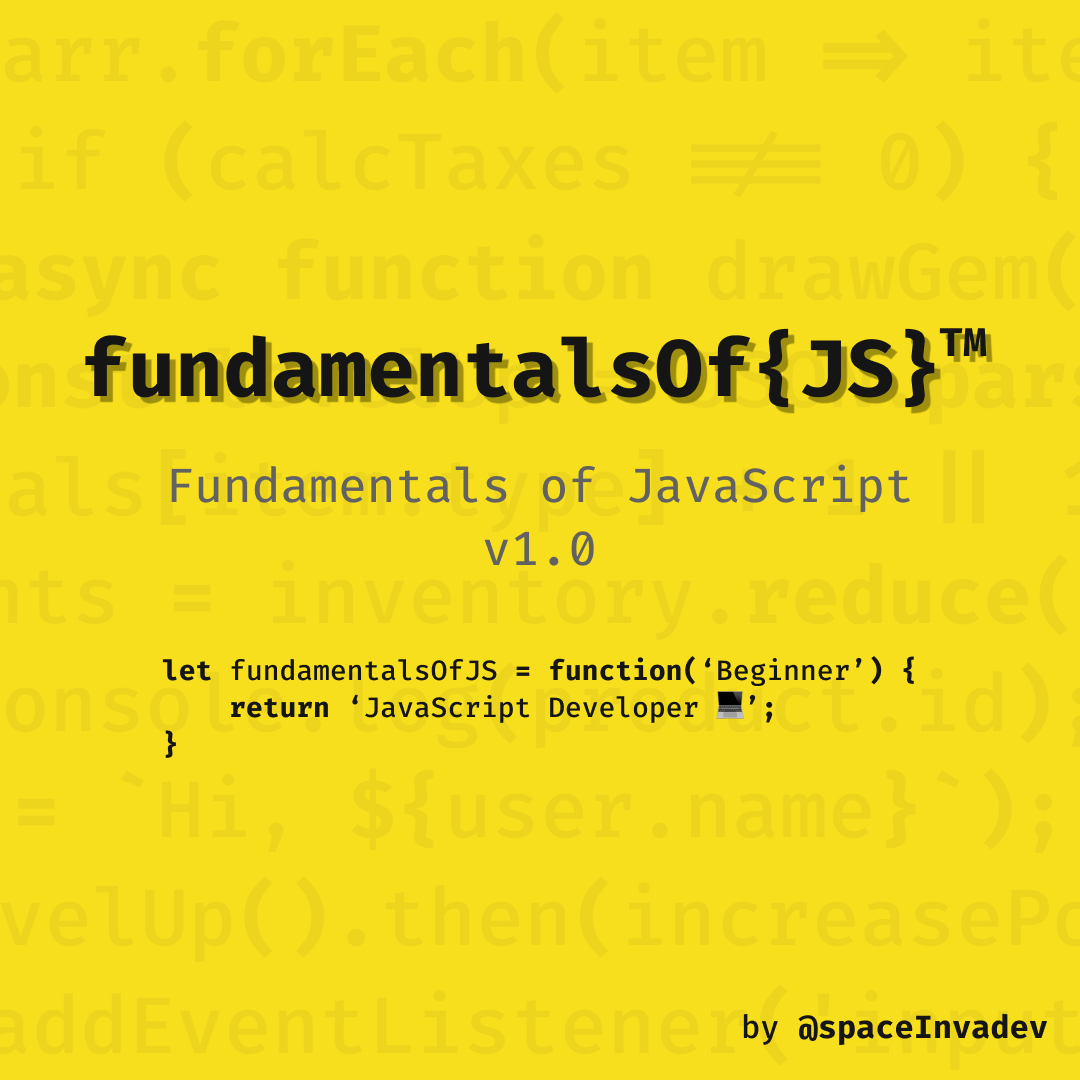
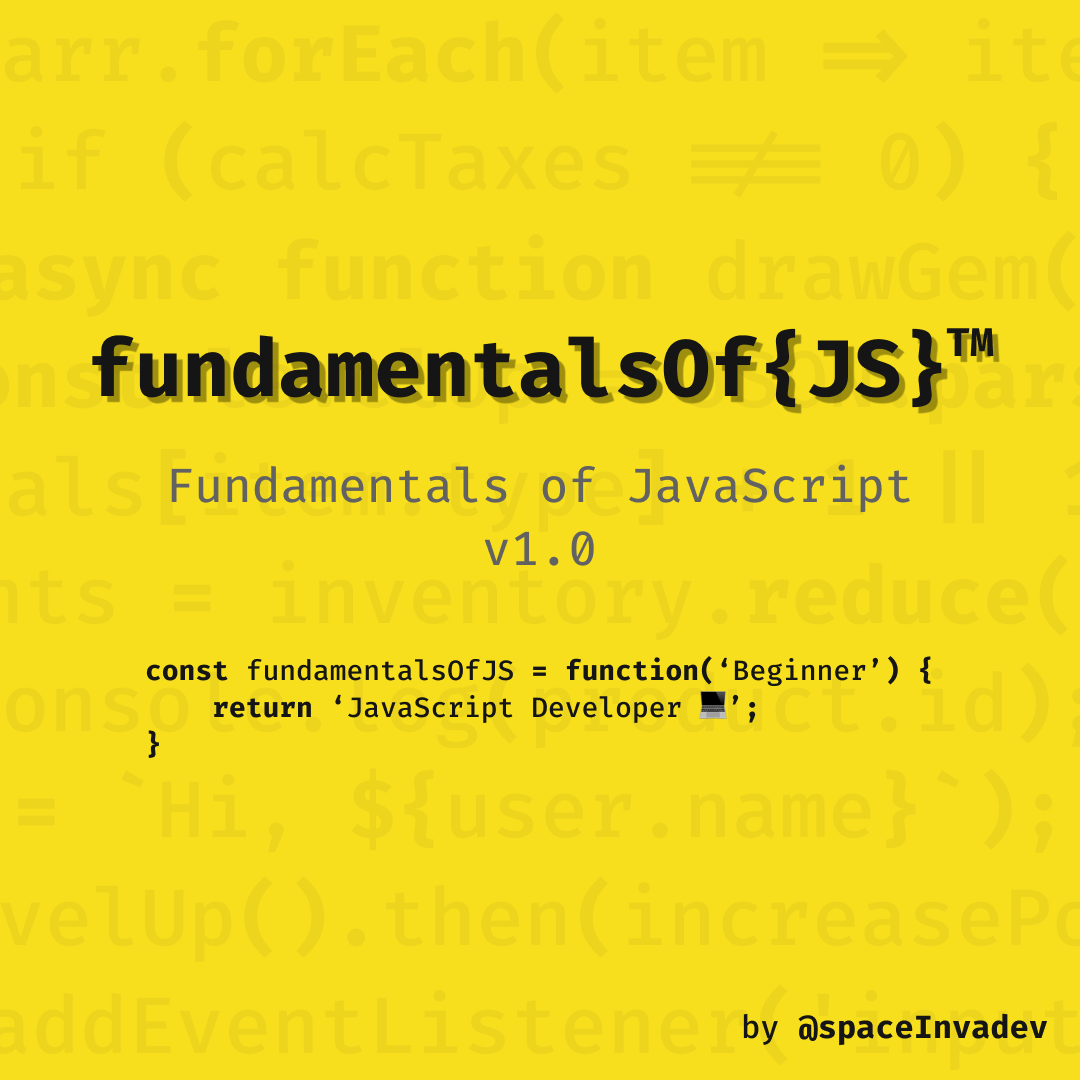
Update Course Cover / Fix small typo in README

Changed region(s): [[0.0611, 0.3056, 0.9472, 0.3972], [0.1222, 0.6111, 0.8861, 0.6722], [0.1222, 0.6722, 0.1833, 0.7028]]

diff --git a/README.md b/README.md
@@ -4,7 +4,7 @@
 
 This is an introductory course to the JavaScript language. This project reflects my journey to becoming a JavaScript developer. Many sources are referenced to complement the information. I have decided to share this with everyone as an entry point to the world of JavaScript for all those people out there who would like to join us.
 
-Any feedback and sugggestions are welcome. Feel free to submit yours via Pull Request.
+Any feedback and suggestions are welcome. Feel free to submit yours via Pull Request.
 
 ## Contents
 
